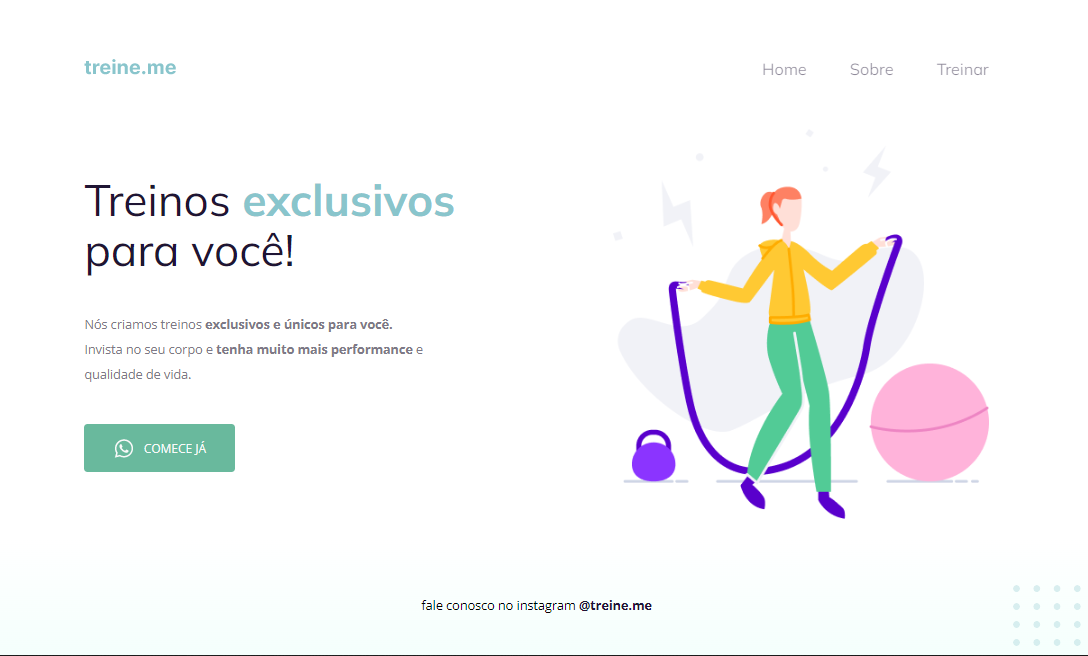
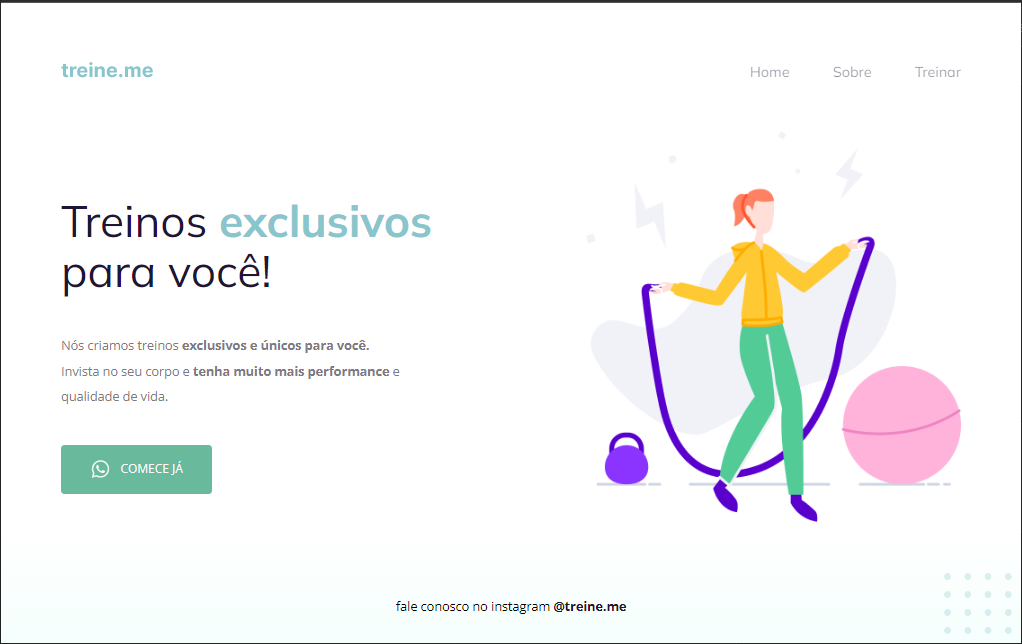
last commit

diff --git a/style.css b/style.css
@@ -14,7 +14,7 @@ body {
   padding-top: 65px;
 }
 
-.nav {
+nav {
   display: flex;
   justify-content: space-between;
   align-items: center;
@@ -22,7 +22,7 @@ body {
   margin-bottom: 55px;
 }
 
-.list {
+ul {
   display: flex;
   gap: 48px;
   list-style: none;
@@ -35,21 +35,20 @@ a {
   text-decoration: none;
 }
 
-.list .item a {
+ul li a {
     opacity: 0.5;
 }
 
-.list .item a:hover {
+ul li a:hover {
   font-weight: bold;
   opacity: 1;
 }
 
-.list,
-.title {
+ul, h1 {
   font-family: "Mulish", sans-serif;
 }
 
-.main {
+#hero {
   display: flex;
   align-items: center;
   justify-content: space-between;
@@ -75,11 +74,13 @@ a {
   line-height: 28px;
   color: #7d7987;
 
+  width: 438px;
+
   margin: 40px 0;
 }
 
-.button {
-  color: white;
+button {
+  color: #F9F9F9;
   text-transform: uppercase;
   font-family: "Open Sans", sans-serif;
 
@@ -97,7 +98,11 @@ a {
   cursor: pointer;
 }
 
-.footer {
+button:hover {
+  background: #4EA788;
+}
+
+footer {
   font-size: 14px;
   line-height: 28px;
 
@@ -106,7 +111,7 @@ a {
   margin-top: 80px;
 }
 
-.footer a {
+footer a {
   font-weight: bold;
 }
 
